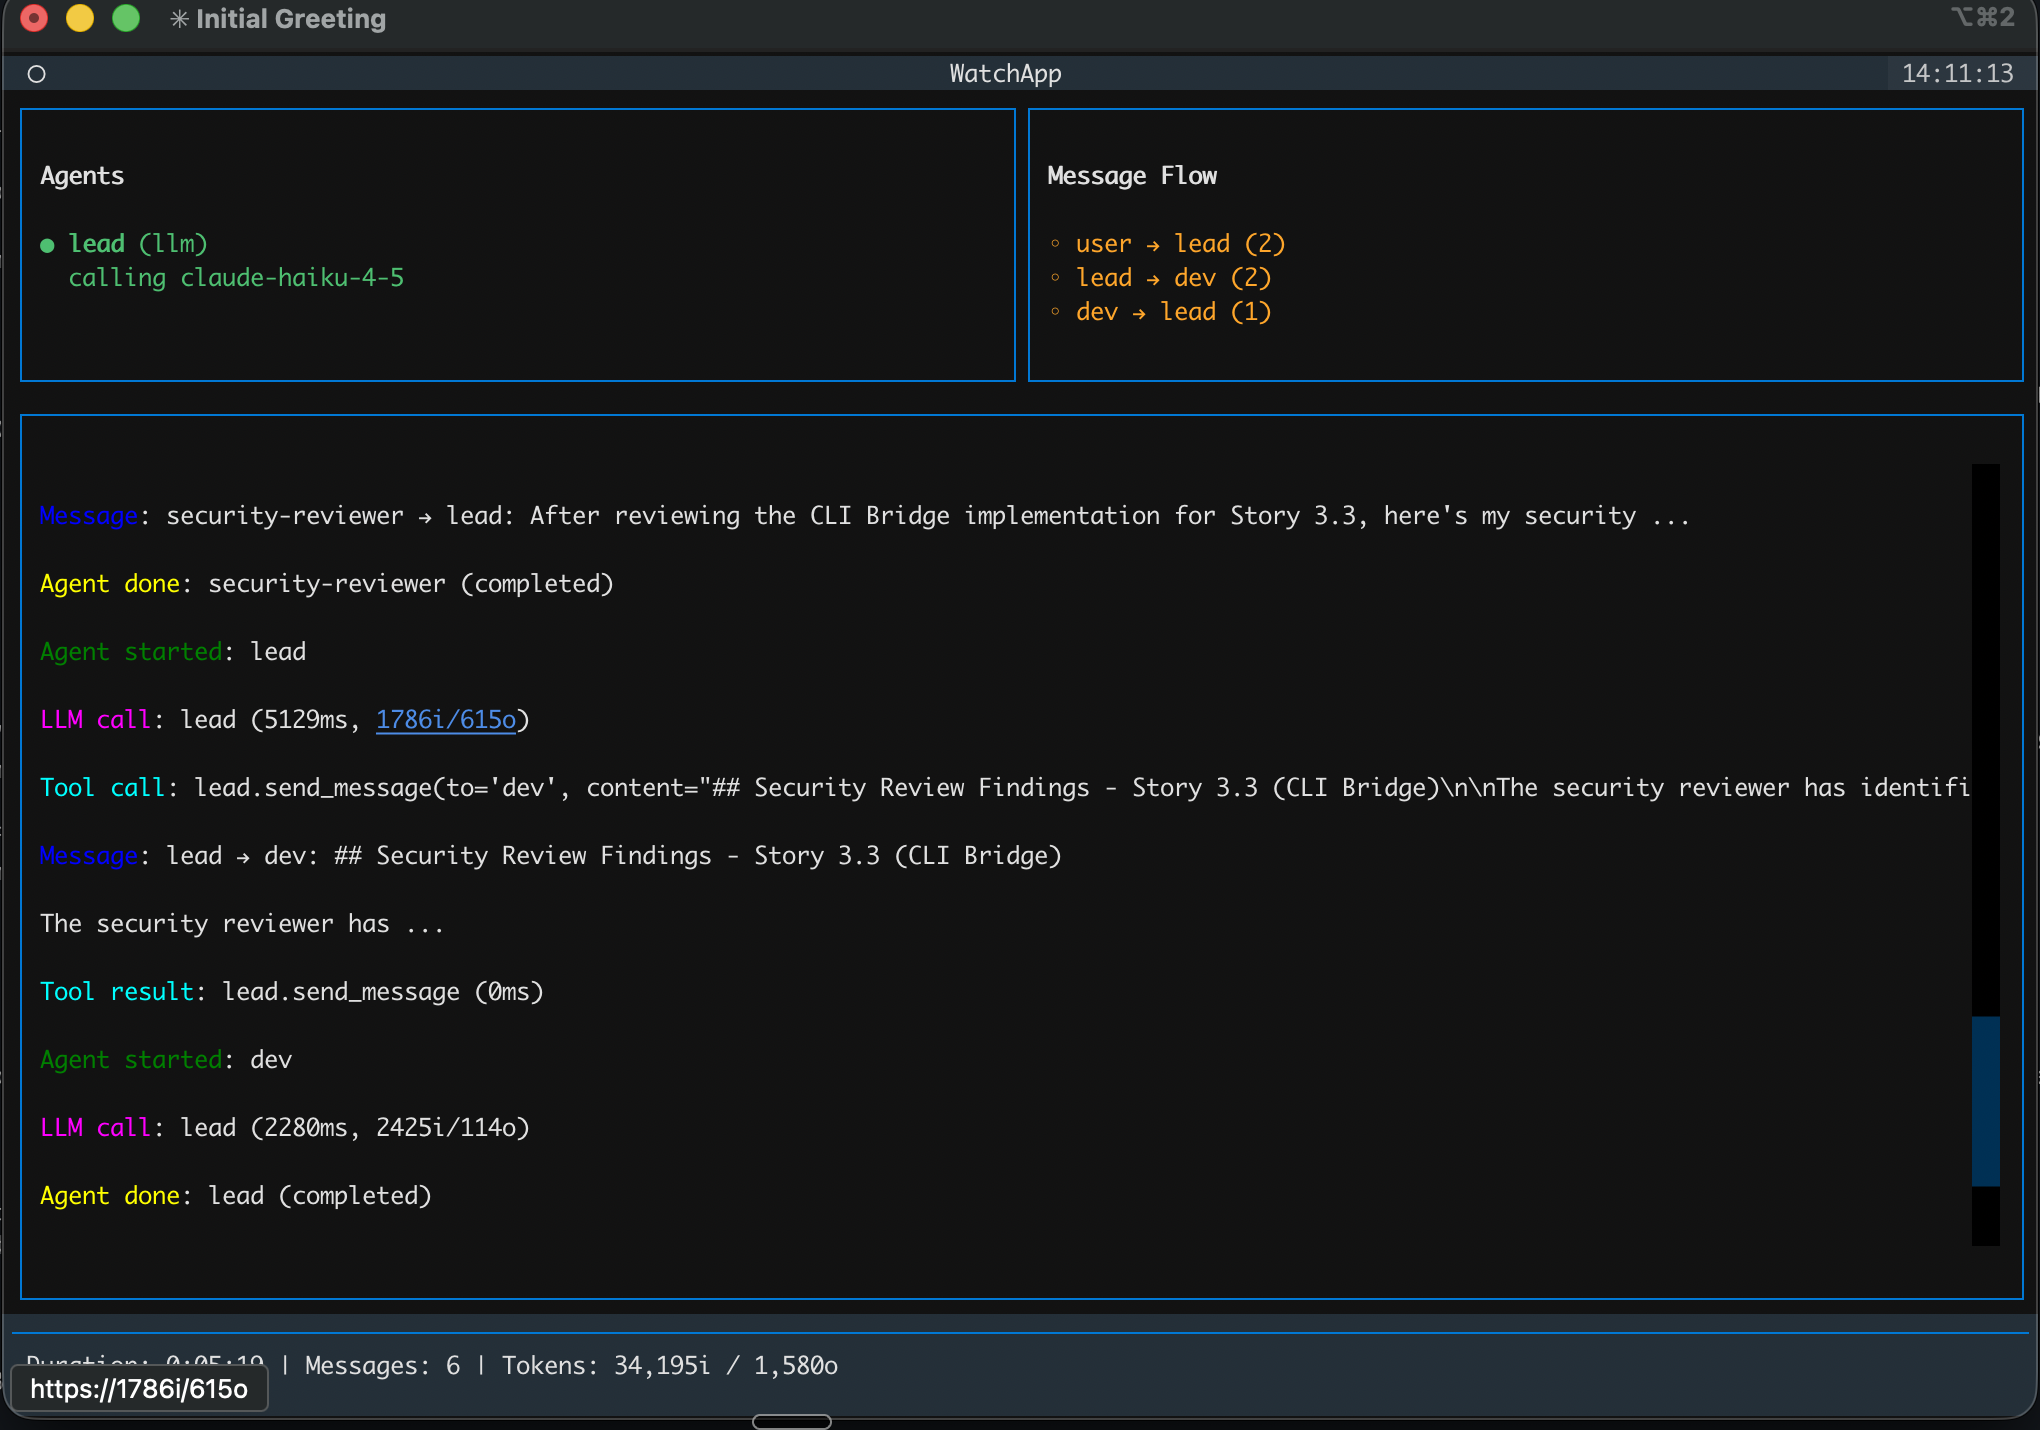
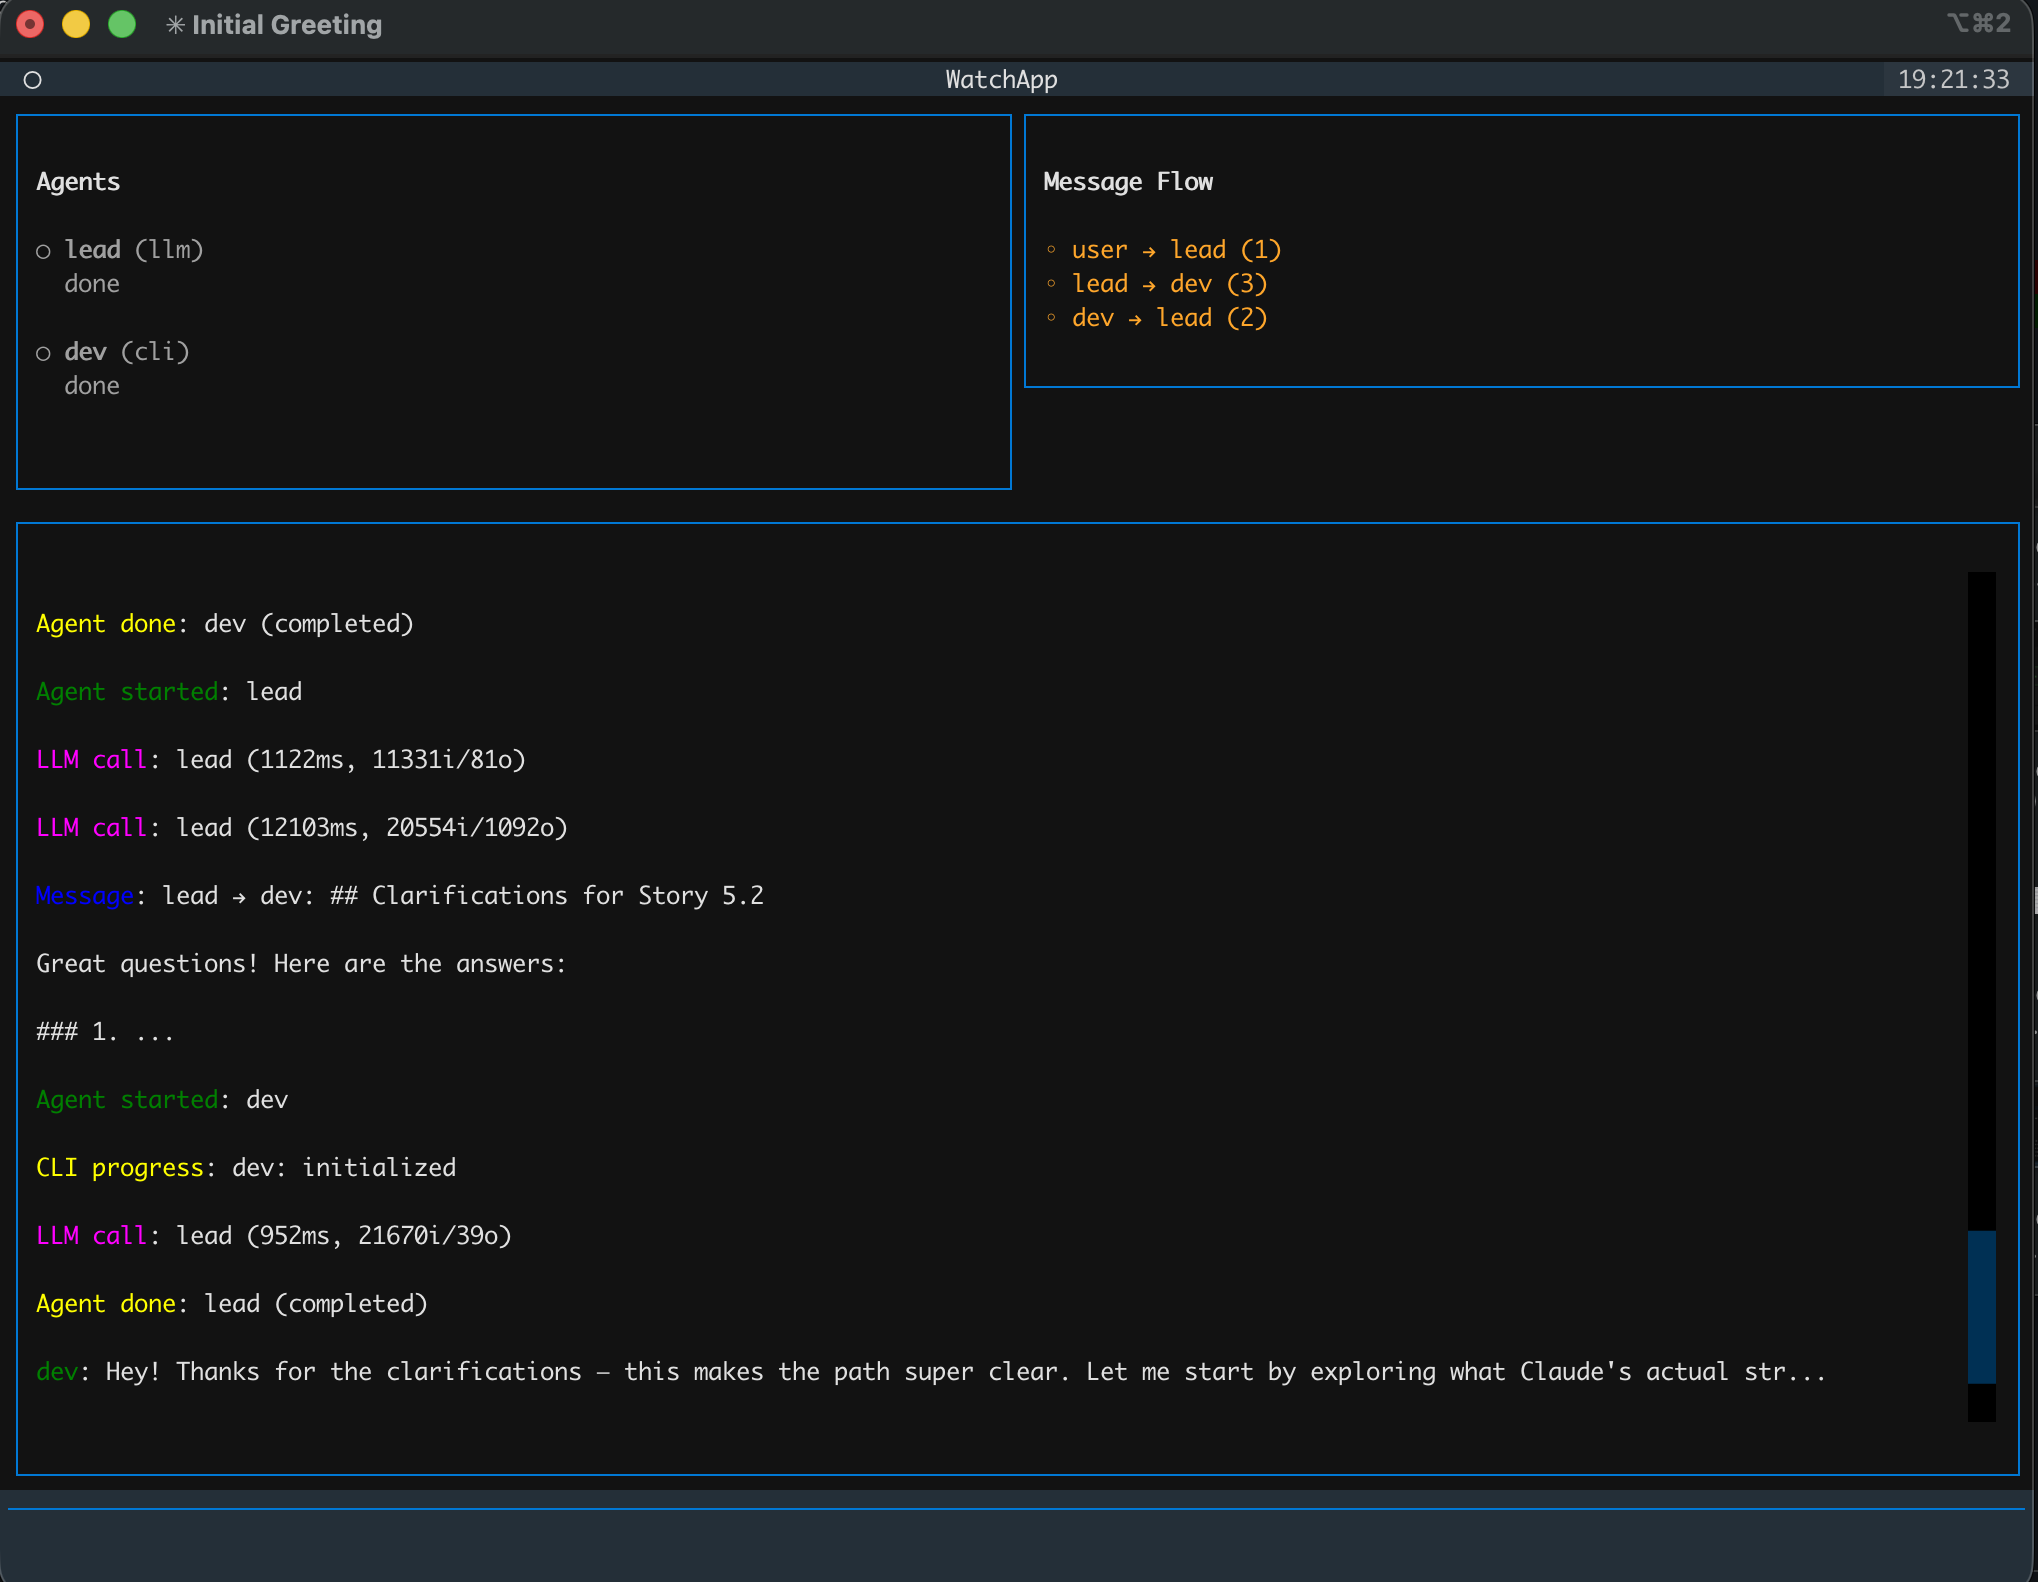
Hide tool calls in watch TUI by default, update screenshot
Tool call events (tool_call, tool_result, cli_tool_call) are now
filtered from the event feed by default. Agent activity panel still
updates. Use -v flag or press t to toggle visibility.

diff --git a/src/lattice/commands/watch.py b/src/lattice/commands/watch.py
@@ -281,6 +281,7 @@ class WatchApp(App[None]):
 
     BINDINGS = [
         ("q", "quit", "Quit"),
+        ("t", "toggle_tools", "Toggle tools"),
     ]
 
     def __init__(
@@ -292,6 +293,7 @@ class WatchApp(App[None]):
         all_agents: dict[str, Any] | None = None,
         heartbeat: Any = None,
         shutdown_event: asyncio.Event | None = None,
+        show_tools: bool = False,
     ) -> None:
         """Initialize the watch app.
 
@@ -303,6 +305,7 @@ class WatchApp(App[None]):
             all_agents: Dict of all agents (for combined mode commands)
             heartbeat: Heartbeat monitor (for /status command)
             shutdown_event: Shutdown event to signal graceful shutdown
+            show_tools: Whether to show tool call events in the event feed
         """
         super().__init__()
         self.session_file = session_file
@@ -312,6 +315,7 @@ class WatchApp(App[None]):
         self.all_agents = all_agents or {}
         self.heartbeat = heartbeat
         self.shutdown_event = shutdown_event
+        self.show_tools = show_tools
 
         # State
         self.agents: dict[str, AgentState] = {}
@@ -351,6 +355,12 @@ class WatchApp(App[None]):
     def on_unmount(self) -> None:
         """Handle app shutdown."""
         self._stop_watching = True
+
+    def action_toggle_tools(self) -> None:
+        """Toggle tool call visibility in the event feed."""
+        self.show_tools = not self.show_tools
+        state = "shown" if self.show_tools else "hidden"
+        self.notify(f"Tool calls {state} (press t to toggle)", timeout=3)
 
     def action_quit(self) -> None:
         """Override quit action to trigger graceful shutdown in combined mode."""
@@ -490,14 +500,13 @@ class WatchApp(App[None]):
             if agent_name in self.agents:
                 self.agents[agent_name].current_activity = f"calling {tool_name}"
 
-            # Format args briefly
-            args_str = ", ".join(f"{k}={v!r}" for k, v in list(args.items())[:2])
-            if len(args) > 2:
-                args_str += ", ..."
-
-            self._add_event_line(
-                f"[cyan]Tool call[/cyan]: {agent_name}.{tool_name}({args_str})"
-            )
+            if self.show_tools:
+                args_str = ", ".join(f"{k}={v!r}" for k, v in list(args.items())[:2])
+                if len(args) > 2:
+                    args_str += ", ..."
+                self._add_event_line(
+                    f"[cyan]Tool call[/cyan]: {agent_name}.{tool_name}({args_str})"
+                )
 
         elif event_type == "tool_result":
             agent_name = event_dict["agent"]
@@ -507,9 +516,10 @@ class WatchApp(App[None]):
             if agent_name in self.agents:
                 self.agents[agent_name].current_activity = "processing"
 
-            self._add_event_line(
-                f"[cyan]Tool result[/cyan]: {agent_name}.{tool_name} ({duration_ms}ms)"
-            )
+            if self.show_tools:
+                self._add_event_line(
+                    f"[cyan]Tool result[/cyan]: {agent_name}.{tool_name} ({duration_ms}ms)"
+                )
 
         elif event_type == "status":
             agent_name = event_dict["agent"]
@@ -553,14 +563,13 @@ class WatchApp(App[None]):
             if agent_name in self.agents:
                 self.agents[agent_name].current_activity = f"calling {tool_name}"
 
-            # Format args briefly
-            args_str = ", ".join(f"{k}={v!r}" for k, v in list(args.items())[:2])
-            if len(args) > 2:
-                args_str += ", ..."
-
-            self._add_event_line(
-                f"[cyan]{agent_name}[/cyan]: {tool_name}({args_str})"
-            )
+            if self.show_tools:
+                args_str = ", ".join(f"{k}={v!r}" for k, v in list(args.items())[:2])
+                if len(args) > 2:
+                    args_str += ", ..."
+                self._add_event_line(
+                    f"[cyan]{agent_name}[/cyan]: {tool_name}({args_str})"
+                )
 
         elif event_type == "cli_thinking":
             agent_name = event_dict["agent"]
@@ -719,7 +728,7 @@ def watch(verbose: bool, session_file: Path | None) -> None:
             raise SystemExit(1)
         click.echo(f"Watching: {session_file}")
 
-    app = WatchApp(session_file=session_file, enable_input=False)
+    app = WatchApp(session_file=session_file, enable_input=False, show_tools=verbose)
     app.run()
 
 
